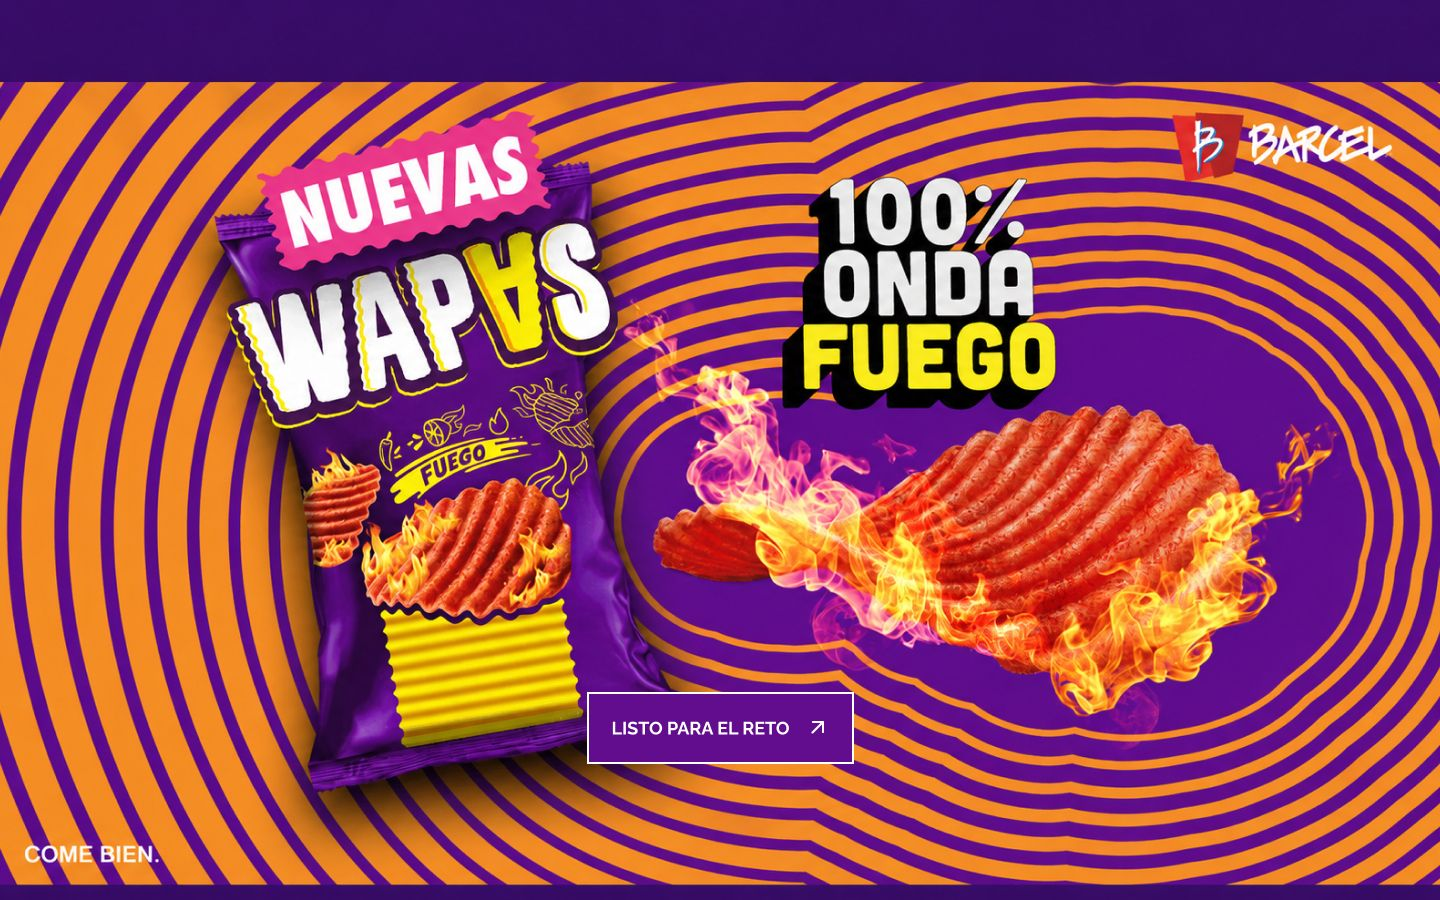
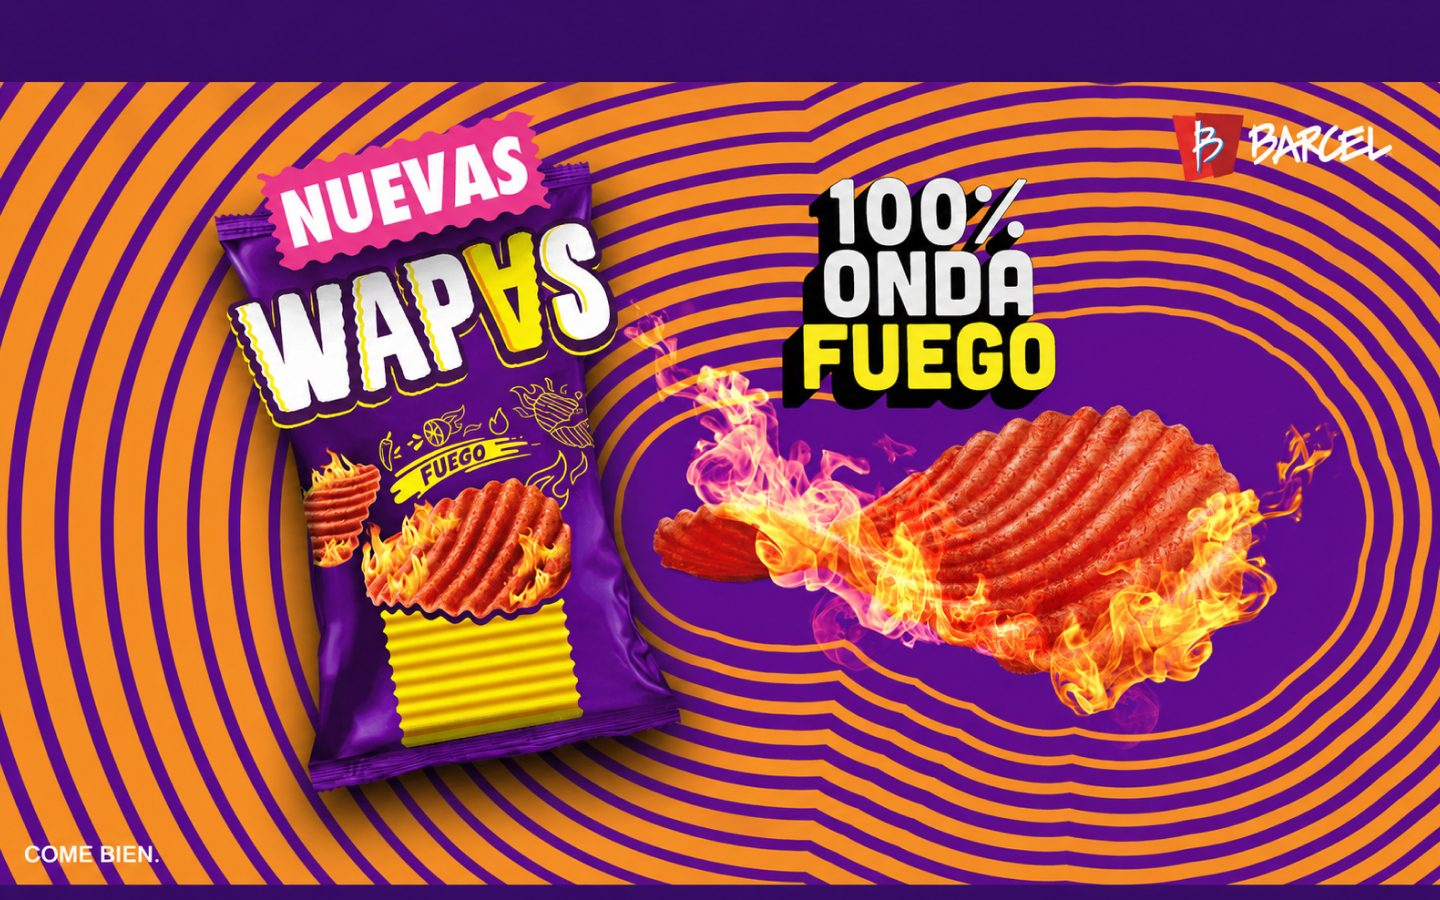
Add files via upload

Changed region(s): [[0.4062, 0.7467, 0.5938, 0.8711]]

diff --git a/src/components/Hero.tsx b/src/components/Hero.tsx
@@ -139,19 +139,23 @@ export default function Hero() {
           ›
         </button>
 
-        {/* dots */}
-        <div className="absolute inset-x-0 bottom-3 flex items-center justify-center gap-2 md:bottom-5">
-          {SLIDES.map((slide, i) => (
-            <button
-              key={slide.id}
-              type="button"
-              aria-label={`Ir al slide ${i + 1}`}
-              onClick={() => goTo(i)}
-              className={`h-1.5 transition-all duration-300 md:h-2 ${
-                i === index ? "w-6 bg-white md:w-7" : "w-1.5 bg-white/50 hover:bg-white/80 md:w-2"
-              }`}
-            />
-          ))}
+        {/* dots — único elemento interactivo con corner radius (1:1 con el diseño) */}
+        <div className="absolute inset-x-0 bottom-3 flex items-center justify-center md:bottom-6">
+          <div className="flex items-center gap-2 rounded-xl bg-white px-4 py-3 shadow-sm md:gap-2.5 md:rounded-2xl md:px-5 md:py-4">
+            {SLIDES.map((slide, i) => (
+              <button
+                key={slide.id}
+                type="button"
+                aria-label={`Ir al slide ${i + 1}`}
+                onClick={() => goTo(i)}
+                className={`h-2 rounded-full transition-all duration-300 md:h-2.5 ${
+                  i === index
+                    ? "w-8 bg-barcel-red md:w-10"
+                    : "w-2 bg-grey-200 hover:bg-grey-300 md:w-2.5"
+                }`}
+              />
+            ))}
+          </div>
         </div>
       </div>
     </section>

diff --git a/src/components/LogoMarquee.tsx b/src/components/LogoMarquee.tsx
@@ -3,18 +3,20 @@ import { brands } from "@/data/brands";
 export default function LogoMarquee() {
   // Solo marcas con logo real confirmado — Golden Nuts se agrega cuando llegue su asset.
   const withLogo = brands.filter((b) => b.logo);
-  const loop = [...withLogo, ...withLogo];
+  // Se repite varias veces (no solo x2) para que la tira nunca se quede sin
+  // logos visibles en pantallas anchas, sin romper el loop -50% sin costuras.
+  const loop = [...withLogo, ...withLogo, ...withLogo, ...withLogo];
 
   return (
-    <div className="overflow-hidden border-y border-black/5 bg-white py-4">
-      <div className="group flex w-max animate-marquee items-center gap-4 hover:[animation-play-state:paused]">
+    <div className="overflow-hidden border-y border-black/5 bg-white py-0">
+      <div className="group flex w-max animate-marquee items-stretch hover:[animation-play-state:paused]">
         {loop.map((brand, i) => (
           <span
             key={`${brand.slug}-${i}`}
-            className={`flex shrink-0 items-center px-5 py-2 ${brand.bg}`}
+            className={`flex shrink-0 items-center justify-center px-8 py-5 ${brand.bg}`}
           >
             {/* eslint-disable-next-line @next/next/no-img-element */}
-            <img src={brand.logo} alt={brand.name} className="h-6 w-auto object-contain" />
+            <img src={brand.logo} alt={brand.name} className="h-8 w-auto object-contain md:h-9" />
           </span>
         ))}
       </div>

diff --git a/tailwind.config.ts b/tailwind.config.ts
@@ -27,6 +27,7 @@ const config: Config = {
         chips: {
           green: "#28C445", // color de marca (referencia visual del diseño aprobado)
           "green-600": "#1FA036",
+          "green-700": "#14802A", // 5.06:1 sobre blanco — AA para texto normal
           brown: "#5A3A22",
         },
         takis: {
@@ -51,9 +52,11 @@ const config: Config = {
         },
       },
       fontFamily: {
-        // Text/Family/Text = Raleway (única familia usada en el sistema de diseño)
+        // Text/Family/Text = Raleway (nav, botones, párrafos, nombres de marca)
         display: ["var(--font-display)", "sans-serif"],
         body: ["var(--font-body)", "sans-serif"],
+        // Teko: fuente condensada para los títulos de sección (H2)
+        teko: ["var(--font-teko)", "sans-serif"],
       },
       keyframes: {
         marquee: {

diff --git a/src/app/globals.css b/src/app/globals.css
@@ -6,6 +6,8 @@
   /* Text/Family/Text (Figma) = Raleway, única familia del sistema */
   --font-display: "Raleway", ui-sans-serif, system-ui, sans-serif;
   --font-body: "Raleway", ui-sans-serif, system-ui, sans-serif;
+  /* Teko: fuente condensada para títulos de sección (H2) */
+  --font-teko: "Teko", ui-sans-serif, system-ui, sans-serif;
 }
 
 html {

diff --git a/src/app/layout.tsx b/src/app/layout.tsx
@@ -22,7 +22,7 @@ export default function RootLayout({
       <head>
         <link
           rel="stylesheet"
-          href="https://fonts.googleapis.com/css2?family=Raleway:wght@400;500;600;700;800;900&display=swap"
+          href="https://fonts.googleapis.com/css2?family=Raleway:wght@400;500;600;700;800;900&family=Teko:wght@400;500;600;700&display=swap"
         />
       </head>
       <body className="font-body antialiased bg-white">{children}</body>

diff --git a/src/components/BrandIntro.tsx b/src/components/BrandIntro.tsx
@@ -2,7 +2,7 @@ export default function BrandIntro() {
   return (
     <section id="sobre-nosotros" className="bg-white py-16 md:py-24">
       <div className="container-page flex flex-col items-center gap-6 text-center">
-        <h2 className="font-display text-3xl font-extrabold uppercase text-barcel-red md:text-4xl">
+        <h2 className="font-teko text-4xl font-bold uppercase text-barcel-red md:text-5xl">
           Sabor y calidad,
           <br className="hidden sm:block" /> ¡así es Barcel<sup className="text-[0.5em]">®</sup>!
         </h2>

diff --git a/src/components/FamilyGrid.tsx b/src/components/FamilyGrid.tsx
@@ -16,7 +16,7 @@ export default function FamilyGrid() {
     <section id="marcas" className="bg-white py-16 md:py-20">
       <div className="container-page mb-10 flex flex-col items-start justify-between gap-4 md:flex-row md:items-center">
         <div>
-          <h2 className="font-display text-2xl font-extrabold uppercase text-barcel-red md:text-3xl">
+          <h2 className="font-teko text-3xl font-bold uppercase text-barcel-red md:text-4xl">
             Conoce toda nuestra familia
           </h2>
           <p className="mt-2 max-w-xl font-body text-sm text-barcel-black/70 md:text-base">

diff --git a/src/components/NewsSection.tsx b/src/components/NewsSection.tsx
@@ -20,7 +20,7 @@ export default function NewsSection() {
   return (
     <section id="novedades" className="bg-barcel-cream py-16 md:py-24">
       <div className="container-page mb-10">
-        <h2 className="font-display text-2xl font-extrabold uppercase text-barcel-red md:text-3xl">
+        <h2 className="font-teko text-3xl font-bold uppercase text-barcel-red md:text-4xl">
           Nuestras novedades
         </h2>
         <p className="mt-2 max-w-2xl font-body text-sm text-barcel-black/70 md:text-base">

diff --git a/src/data/brands.ts b/src/data/brands.ts
@@ -20,7 +20,7 @@ export const brands: Brand[] = [
       "Chip's es sabor sin filtro. Una marca intensa, juvenil y explosiva que convierte cada papa en una experiencia llena de crunch, picante y actitud mexicana.",
     bg: "bg-chips-green",
     logoText: "text-chips-brown",
-    textOnBg: "text-chips-brown",
+    textOnBg: "text-chips-green-700",
     imageFirst: true,
     logo: "/logos/chips.png",
     logoHover: "/logos/chips-hover.png",